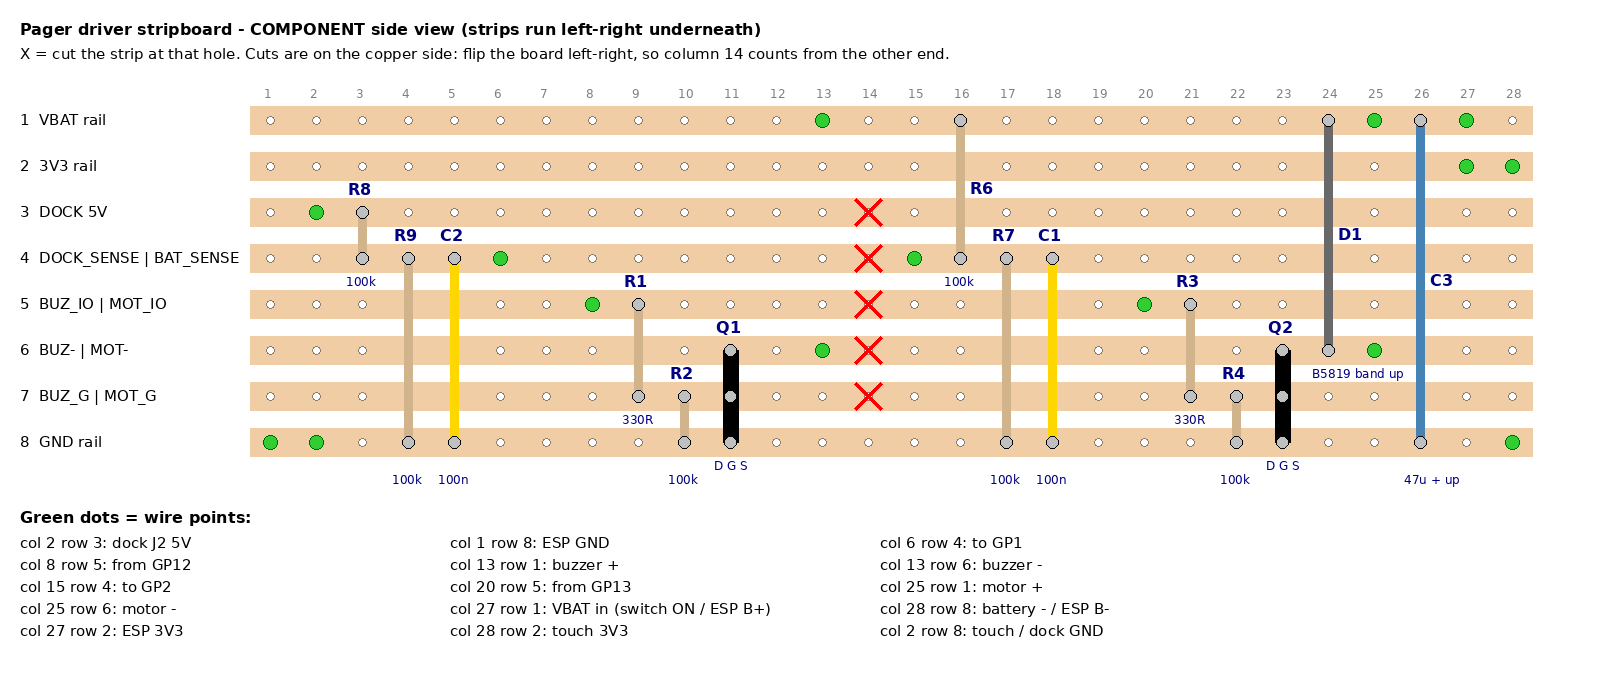
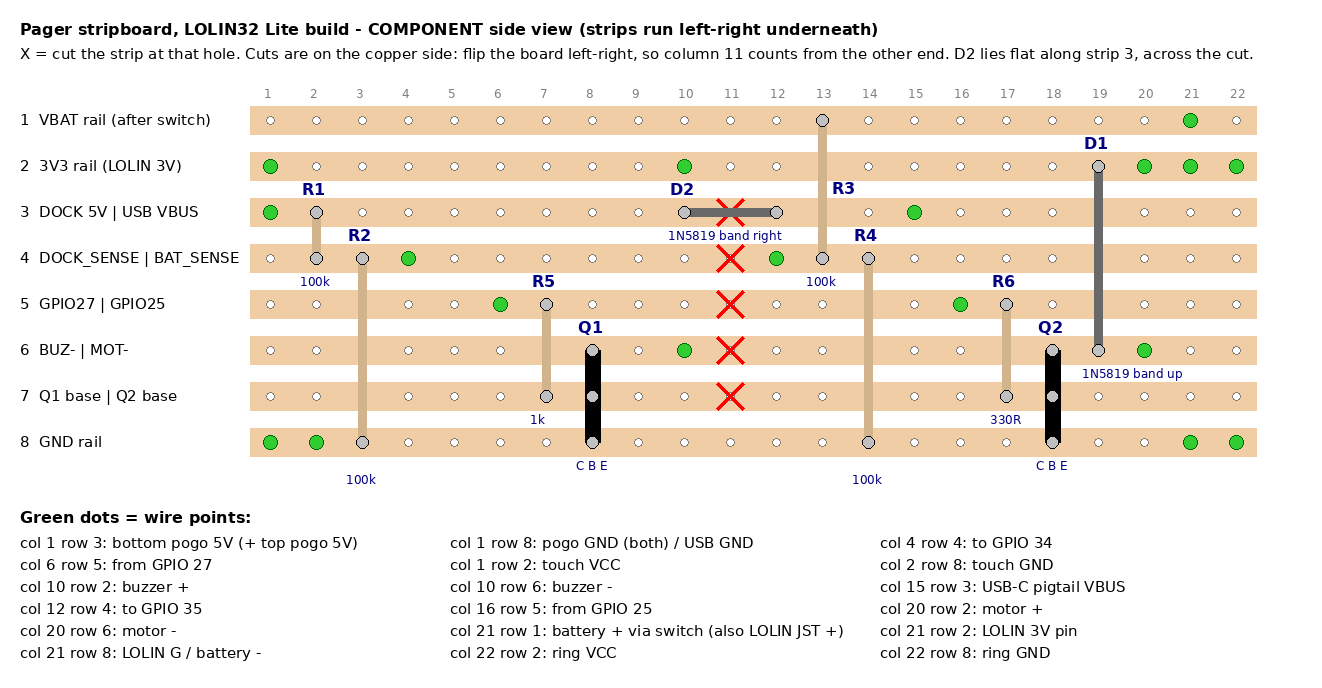
Stripboard: LOLIN32 Lite build (NPN drivers, two dividers, charge diode, rails) instead of the PCB circuit
Claude-Session: https://claude.ai/code/session_016rvrxpLKBnY1fDA5ftg5XD

diff --git a/proto/stripboard.py b/proto/stripboard.py
@@ -1,36 +1,34 @@
-"""Stripboard layout for the pager driver circuits (same parts/nets as pcb/pager_main/design_main.py).
+"""Stripboard layout for the LOLIN32 Lite pager (docs/pager_wiring.md, current power plan: ring, buzzer, motor on 3V3).
 Draws stripboard.png, seen from the COMPONENT side (strips run left-right underneath).
     python3 stripboard.py
 """
 from PIL import Image, ImageDraw, ImageFont
 
-COLS, ROWS = 28, 8
-ROWNAME = {1: "VBAT rail", 2: "3V3 rail", 3: "DOCK 5V", 4: "DOCK_SENSE | BAT_SENSE",
-           5: "BUZ_IO | MOT_IO", 6: "BUZ- | MOT-", 7: "BUZ_G | MOT_G", 8: "GND rail"}
-CUTS = [(14, r) for r in (3, 4, 5, 6, 7)]          # (column, row) holes where the strip is cut
+COLS, ROWS = 22, 8
+ROWNAME = {1: "VBAT rail (after switch)", 2: "3V3 rail (LOLIN 3V)", 3: "DOCK 5V | USB VBUS", 4: "DOCK_SENSE | BAT_SENSE",
+           5: "GPIO27 | GPIO25", 6: "BUZ- | MOT-", 7: "Q1 base | Q2 base", 8: "GND rail"}
+CUTS = [(11, r) for r in (3, 4, 5, 6, 7)]          # (column, row) holes where the strip is cut
 # parts: (label, value, [(col,row), ...], colour)
 PARTS = [
-    ("R8", "100k", [(3, 3), (3, 4)], "tan"),
-    ("R9", "100k", [(4, 4), (4, 8)], "tan"),
-    ("C2", "100n", [(5, 4), (5, 8)], "gold"),
-    ("R1", "330R", [(9, 5), (9, 7)], "tan"),
-    ("R2", "100k", [(10, 7), (10, 8)], "tan"),
-    ("Q1", "D G S", [(11, 6), (11, 7), (11, 8)], "black"),
-    ("R6", "100k", [(16, 1), (16, 4)], "tan"),
-    ("R7", "100k", [(17, 4), (17, 8)], "tan"),
-    ("C1", "100n", [(18, 4), (18, 8)], "gold"),
-    ("R3", "330R", [(21, 5), (21, 7)], "tan"),
-    ("R4", "100k", [(22, 7), (22, 8)], "tan"),
-    ("Q2", "D G S", [(23, 6), (23, 7), (23, 8)], "black"),
-    ("D1", "B5819 band up", [(24, 1), (24, 6)], "dimgray"),
-    ("C3", "47u + up", [(26, 1), (26, 8)], "steelblue"),
+    ("R1", "100k", [(2, 3), (2, 4)], "tan"),
+    ("R2", "100k", [(3, 4), (3, 8)], "tan"),
+    ("R5", "1k", [(7, 5), (7, 7)], "tan"),
+    ("Q1", "C B E", [(8, 6), (8, 7), (8, 8)], "black"),
+    ("D2", "1N5819 band right", [(10, 3), (12, 3)], "dimgray"),
+    ("R3", "100k", [(13, 1), (13, 4)], "tan"),
+    ("R4", "100k", [(14, 4), (14, 8)], "tan"),
+    ("R6", "330R", [(17, 5), (17, 7)], "tan"),
+    ("Q2", "C B E", [(18, 6), (18, 7), (18, 8)], "black"),
+    ("D1", "1N5819 band up", [(19, 2), (19, 6)], "dimgray"),
 ]
 # off-board wires: (col,row,text)
 WIRES = [
-    (2, 3, "dock J2 5V"), (1, 8, "ESP GND"), (6, 4, "to GP1"), (8, 5, "from GP12"),
-    (13, 1, "buzzer +"), (13, 6, "buzzer -"), (15, 4, "to GP2"), (20, 5, "from GP13"),
-    (25, 1, "motor +"), (25, 6, "motor -"), (27, 1, "VBAT in (switch ON / ESP B+)"),
-    (28, 8, "battery - / ESP B-"), (27, 2, "ESP 3V3"), (28, 2, "touch 3V3"), (2, 8, "touch / dock GND"),
+    (1, 3, "bottom pogo 5V (+ top pogo 5V)"), (1, 8, "pogo GND (both) / USB GND"), (4, 4, "to GPIO 34"),
+    (6, 5, "from GPIO 27"), (1, 2, "touch VCC"), (2, 8, "touch GND"),
+    (10, 2, "buzzer +"), (10, 6, "buzzer -"), (15, 3, "USB-C pigtail VBUS"), (12, 4, "to GPIO 35"),
+    (16, 5, "from GPIO 25"), (20, 2, "motor +"), (20, 6, "motor -"),
+    (21, 1, "battery + via switch (also LOLIN JST +)"), (21, 2, "LOLIN 3V pin"), (21, 8, "LOLIN G / battery -"),
+    (22, 2, "ring VCC"), (22, 8, "ring GND"),
 ]
 P, X0, Y0 = 46, 270, 120
 img = Image.new("RGB", (X0 + COLS * P + 40, Y0 + ROWS * P + 200), "white")
@@ -40,8 +38,8 @@ try:
 except OSError:
     f = fb = fs = ImageFont.load_default()
 def xy(c, r): return X0 + (c - 1) * P, Y0 + (r - 1) * P
-d.text((20, 20), "Pager driver stripboard - COMPONENT side view (strips run left-right underneath)", font=fb, fill="black")
-d.text((20, 45), "X = cut the strip at that hole. Cuts are on the copper side: flip the board left-right, so column 14 counts from the other end.", font=f, fill="black")
+d.text((20, 20), "Pager stripboard, LOLIN32 Lite build - COMPONENT side view (strips run left-right underneath)", font=fb, fill="black")
+d.text((20, 45), "X = cut the strip at that hole. Cuts are on the copper side: flip the board left-right, so column 11 counts from the other end. D2 lies flat along strip 3, across the cut.", font=f, fill="black")
 for c in range(1, COLS + 1):
     d.text((xy(c, 1)[0] - 6, Y0 - 34), str(c), font=fs, fill="gray")
 for r in range(1, ROWS + 1):
@@ -55,7 +53,7 @@ for c, r in CUTS:
     d.line([cx - 13, cy - 13, cx + 13, cy + 13], fill="red", width=4); d.line([cx - 13, cy + 13, cx + 13, cy - 13], fill="red", width=4)
 for lab, val, pins, col in PARTS:
     pts = [xy(c, r) for c, r in pins]
-    d.line([pts[0], pts[-1]], fill=col, width=9 if lab[0] != "Q" else 16)
+    d.line([pts[0], pts[-1]], fill=col, width=16 if lab[0] == "Q" else 9)
     for x, y in pts: d.ellipse([x - 6, y - 6, x + 6, y + 6], fill="silver", outline="black")
     x, y = pts[0]
     if pins[0][1] == 1: d.text((x + 10, (pts[0][1] + pts[-1][1]) / 2 - 10), lab, font=fb, fill="navy")
